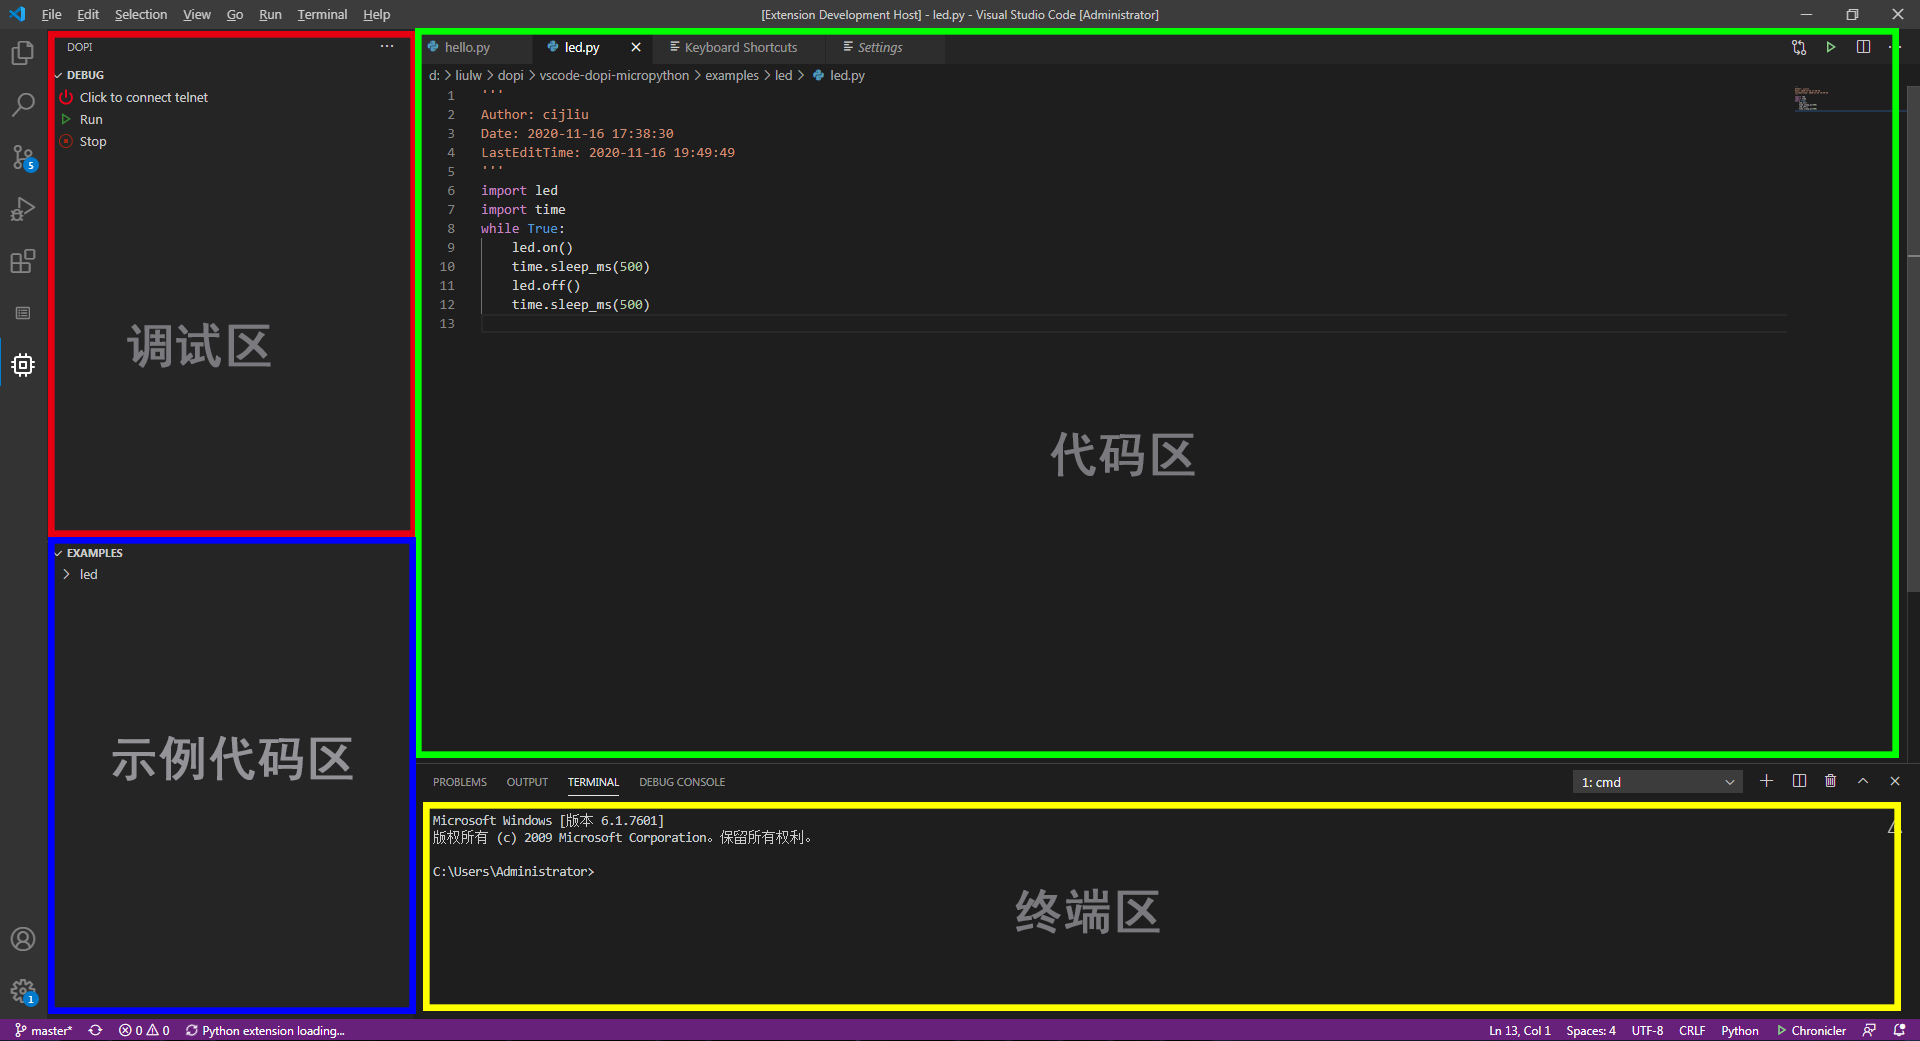
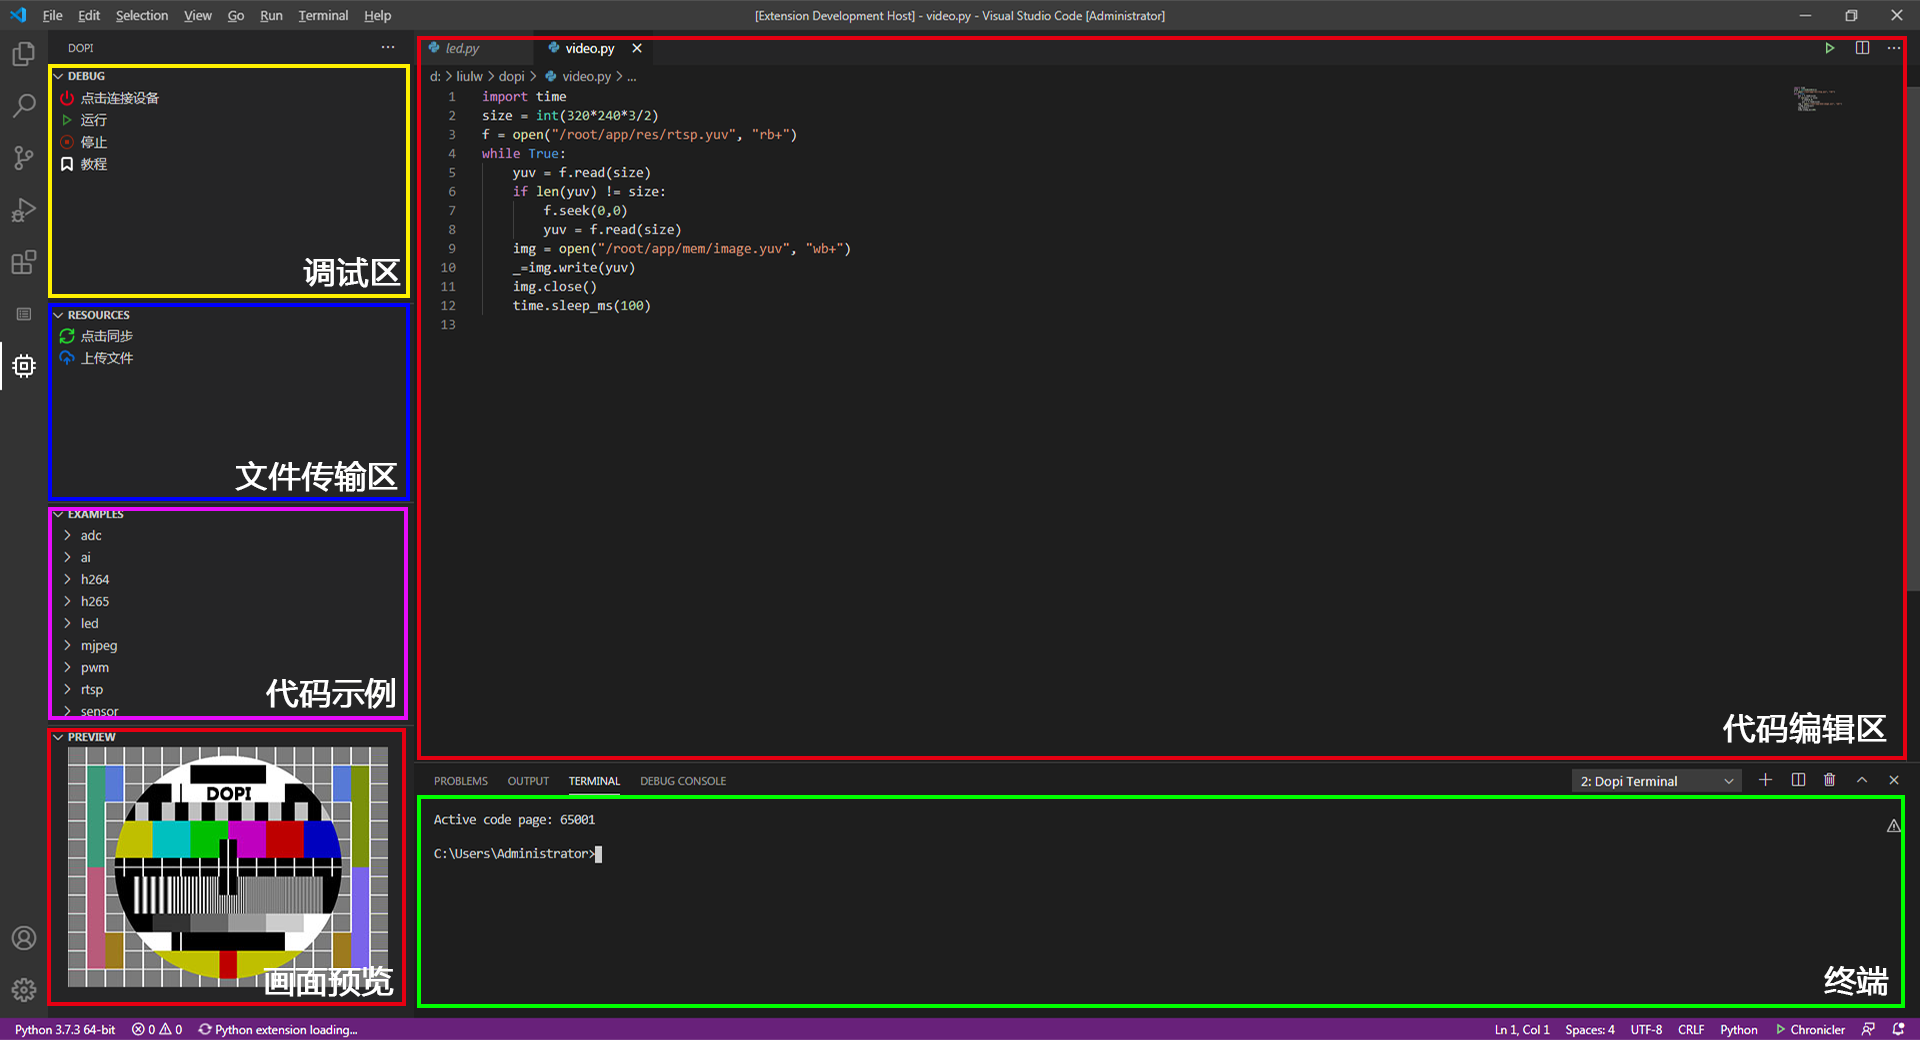
update README

Changed region(s): [[0.0, 0.0, 1.0, 1.0], [0.5312, 0.4, 0.625, 0.4615], [0.5312, 0.8308, 0.625, 0.8923]]

diff --git a/README.md b/README.md
@@ -5,18 +5,28 @@ VSCode Dopi插件，支持Micropython交互环境.
 ## 特性
 
 *   支持Telnet连接
+*   支持FTP文件传输
 *   支持Micropython交互编程
 
 ## 使用说明
 
-* 界面
-![connect](https://github.com/cijliu/vscode-dopi-micropython/raw/master/./images/ide.png)
-* 连接设备
+* 界面展示
 
-![connect](https://github.com/cijliu/vscode-dopi-micropython/raw/master/./images/connect.gif)
+![connect](https://github.com/cijliu/vscode-dopi-micropython/raw/master/./images/ide.gif)
 
-
-
-* 运行代码
+* 连接设备,运行代码
 
 ![connect](https://github.com/cijliu/vscode-dopi-micropython/raw/master/./images/demo.gif)
+
+
+* 文件下载
+
+![connect](https://github.com/cijliu/vscode-dopi-micropython/raw/master/./images/ftp-get.gif)
+
+* 文件上传
+
+![connect](https://github.com/cijliu/vscode-dopi-micropython/raw/master/./images/ftp-put.gif)
+
+* 摄像头画面预览
+
+![connect](https://github.com/cijliu/vscode-dopi-micropython/raw/master/./images/video-player.gif)
